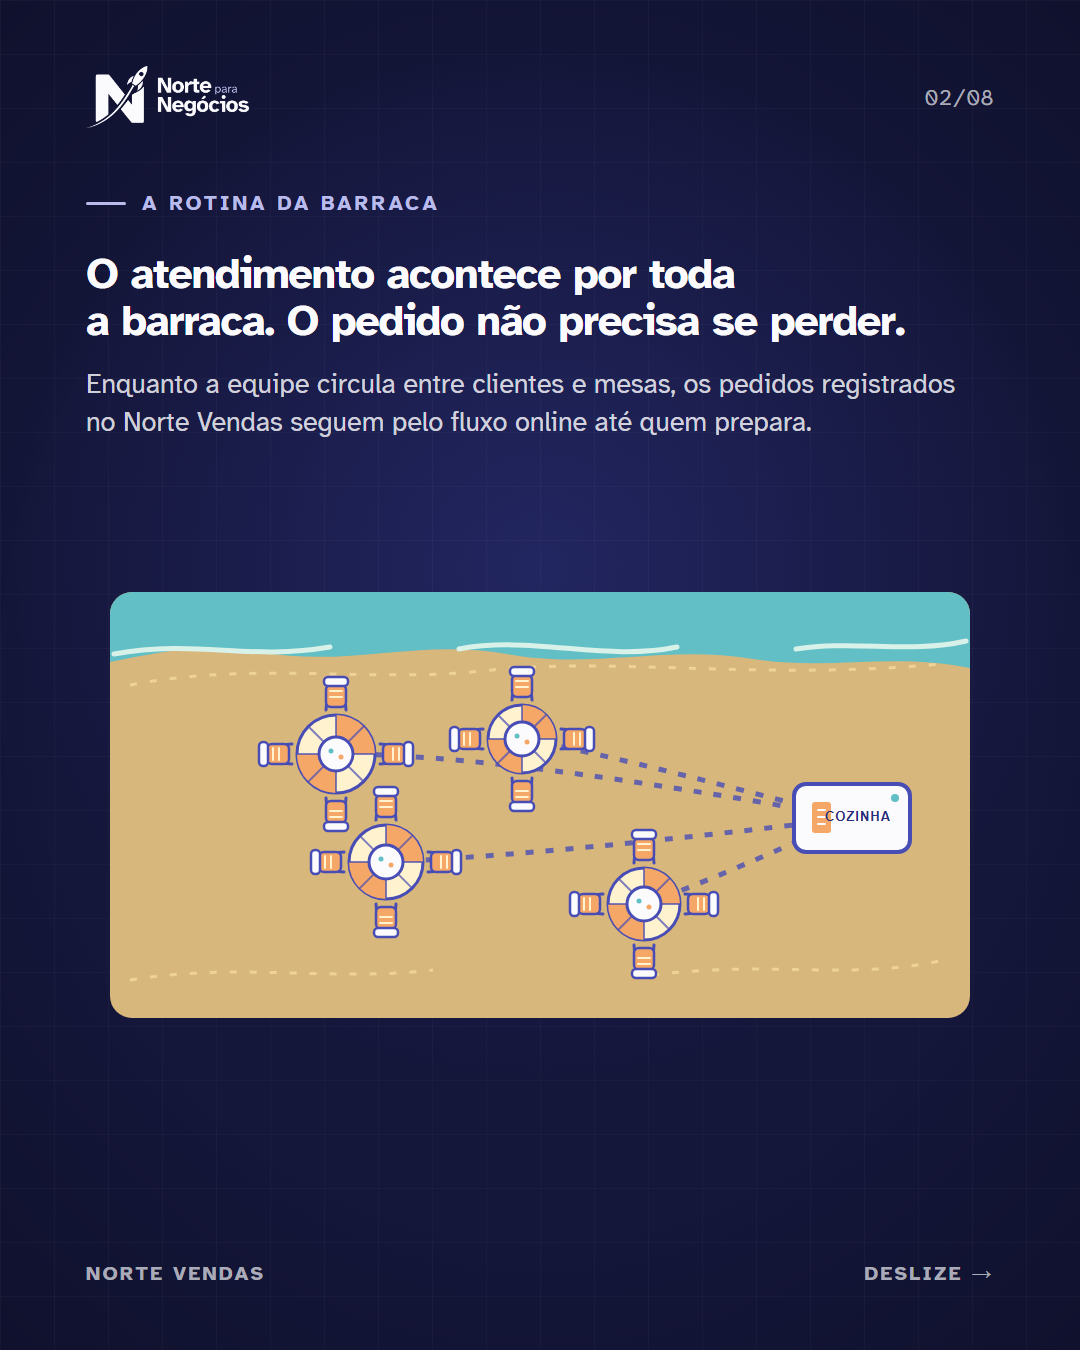
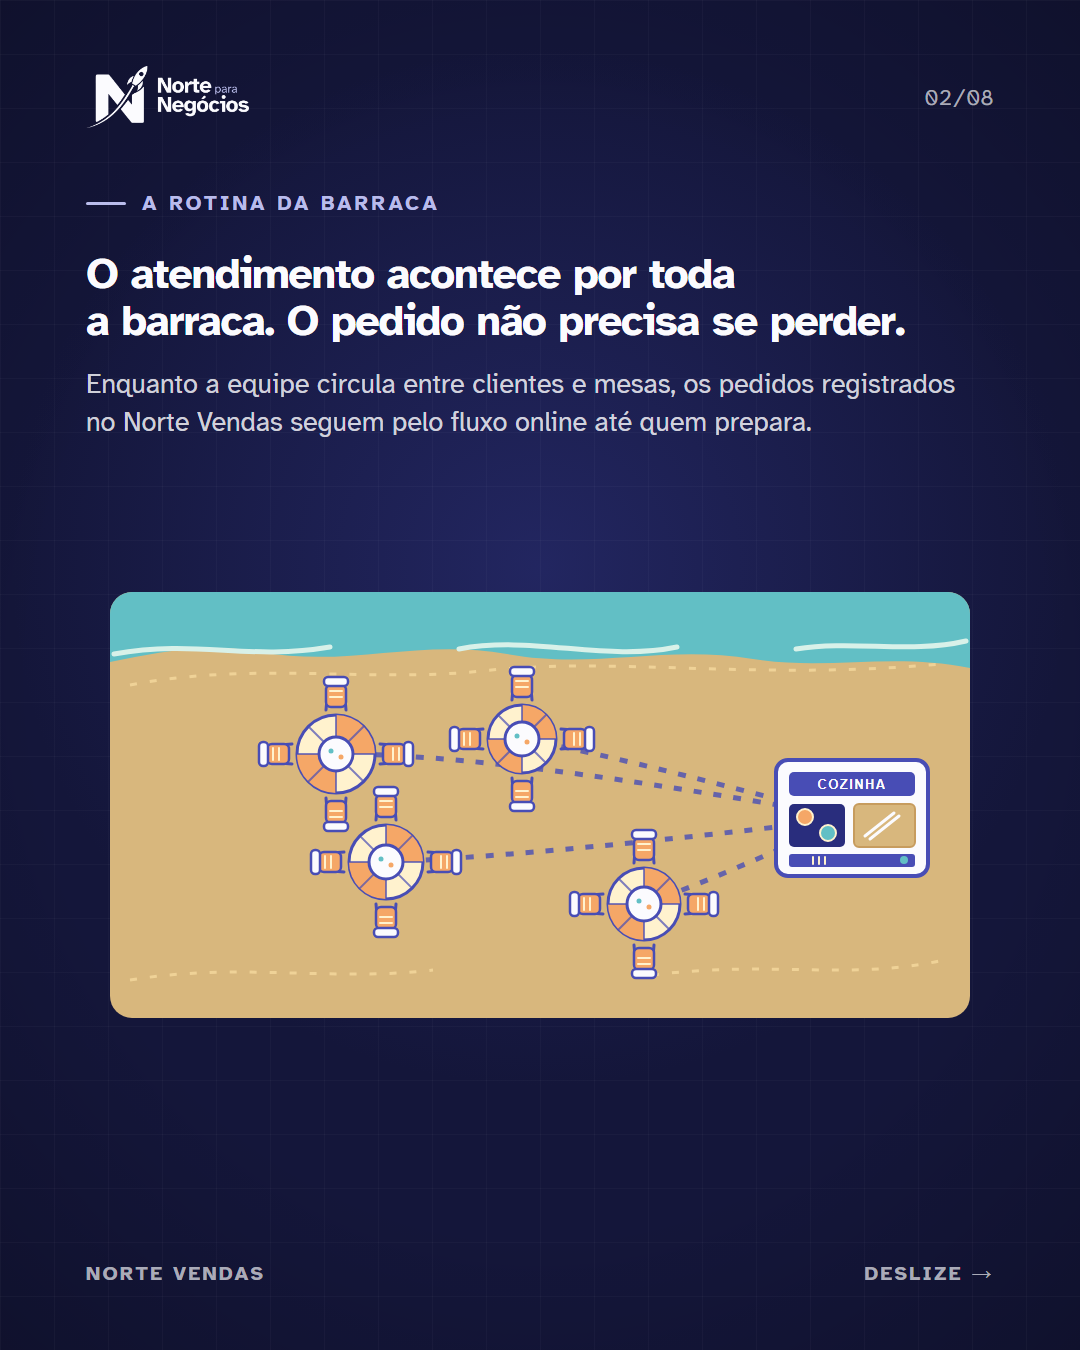
Balance beach stand and kitchen illustrations

Changed region(s): [[0.7028, 0.56, 0.8861, 0.6533]]

diff --git a/src/templates/NorteVendasBarracaPraia.tsx b/src/templates/NorteVendasBarracaPraia.tsx
@@ -107,14 +107,12 @@ const BeachStandHero: React.FC = () => (
     </g>
 
     <g transform="translate(454 162)" data-scene-object="beach-stall-front">
-      <path d="M-140-54L-112-122H112L140-54Z" fill="#FFF2CE" stroke="#FBFBFE" strokeWidth="4" strokeLinejoin="round" data-roof="striped-awning" />
-      <path d="M-112-122H-67L-48-54H-137ZM-48-122H-4L3-54H-29ZM21-122H65L49-54H5ZM67-122H112L137-54H95Z" fill="#F5A767" />
-      <path d="M-140-54H140V-30H-140Z" fill="#F5A767" stroke="#FBFBFE" strokeWidth="4" />
-      <path d="M-105-54V-31M-70-54V-31M-35-54V-31M0-54V-31M35-54V-31M70-54V-31M105-54V-31" stroke="#FFF2CE" strokeWidth="4" />
-      <text x="0" y="-36" textAnchor="middle" fontFamily="Arial, sans-serif" fontSize="14" fontWeight="700" letterSpacing="1.4" fill="#292D7D">BARRACA</text>
-      <rect x="-86" y="-30" width="172" height="105" rx="8" fill="#292D7D" stroke="#FBFBFE" strokeWidth="4" />
-      <rect x="-68" y="-12" width="136" height="55" rx="4" fill="#484DB5" stroke="#FFF2CE" strokeWidth="4" />
-      <path d="M-36 0H36M-36 16H36" stroke="#62BFC5" strokeWidth="5" strokeLinecap="round" />
+      <path d="M-140-54L-112-120H112L140-54Z" fill="#D8B77D" stroke="#FBFBFE" strokeWidth="4" strokeLinejoin="round" data-roof="plain-awning" />
+      <path d="M-140-54H140V-31H-140Z" fill="#F5A767" stroke="#FBFBFE" strokeWidth="4" />
+      <text x="0" y="-36" textAnchor="middle" fontFamily="Arial, sans-serif" fontSize="17" fontWeight="700" letterSpacing="1.2" fill="#292D7D">BARRACA</text>
+      <rect x="-86" y="-31" width="172" height="106" rx="8" fill="#292D7D" stroke="#FBFBFE" strokeWidth="4" />
+      <rect x="-67" y="-12" width="134" height="57" rx="5" fill="#FFF2CE" stroke="#FBFBFE" strokeWidth="4" />
+      <rect x="-67" y="31" width="134" height="14" fill="#F5A767" />
       <rect x="-105" y="70" width="210" height="22" rx="6" fill="#FBFBFE" stroke="#D8B77D" strokeWidth="3" />
       <rect x="-92" y="92" width="184" height="23" rx="5" fill="#484DB5" stroke="#FBFBFE" strokeWidth="3" />
       <path d="M-55 94V113M-18 94V113M18 94V113M55 94V113" stroke="#AEB4F6" strokeWidth="3" />
@@ -168,11 +166,17 @@ const BeachAreaMap: React.FC = () => (
       ))}
 
       <g transform="translate(766 248)" data-scene-object="kitchen-route-endpoint">
-        <rect x="-58" y="-34" width="116" height="68" rx="12" fill="#FBFBFE" stroke="#484DB5" strokeWidth="4" />
-        <rect x="-40" y="-16" width="19" height="31" rx="3" fill="#F5A767" />
-        <path d="M-34-8H-27M-34-1H-27M-34 6H-27" stroke="#FBFBFE" strokeWidth="2" strokeLinecap="round" />
-        <text x="6" y="3" textAnchor="middle" fontFamily="Arial, sans-serif" fontSize="13" fontWeight="700" letterSpacing="1" fill="#292D7D">COZINHA</text>
-        <circle cx="43" cy="-20" r="4" fill="#62BFC5" />
+        <rect x="-76" y="-58" width="152" height="116" rx="12" fill="#FBFBFE" stroke="#484DB5" strokeWidth="4" />
+        <rect x="-63" y="-46" width="126" height="24" rx="5" fill="#484DB5" />
+        <text x="0" y="-29" textAnchor="middle" fontFamily="Arial, sans-serif" fontSize="13" fontWeight="700" letterSpacing="1.4" fill="#FBFBFE">COZINHA</text>
+        <rect x="-63" y="-14" width="56" height="43" rx="5" fill="#292D7D" data-scene-object="kitchen-cooktop" />
+        <circle cx="-47" cy="-1" r="8" fill="#F5A767" stroke="#FFF2CE" strokeWidth="2" />
+        <circle cx="-24" cy="15" r="8" fill="#62BFC5" stroke="#FFF2CE" strokeWidth="2" />
+        <rect x="2" y="-14" width="61" height="43" rx="5" fill="#D8B77D" stroke="#C79C5E" strokeWidth="2" data-scene-object="kitchen-prep-counter" />
+        <path d="M13 18L42-5M18 21L47-2" stroke="#FBFBFE" strokeWidth="3" strokeLinecap="round" />
+        <rect x="-63" y="36" width="126" height="13" rx="3" fill="#484DB5" data-scene-object="kitchen-order-pass" />
+        <path d="M-39 39V46M-33 39V46M-27 39V46" stroke="#FFF2CE" strokeWidth="2" strokeLinecap="round" />
+        <circle cx="52" cy="42" r="4" fill="#62BFC5" />
       </g>
     </g>
   </svg>
